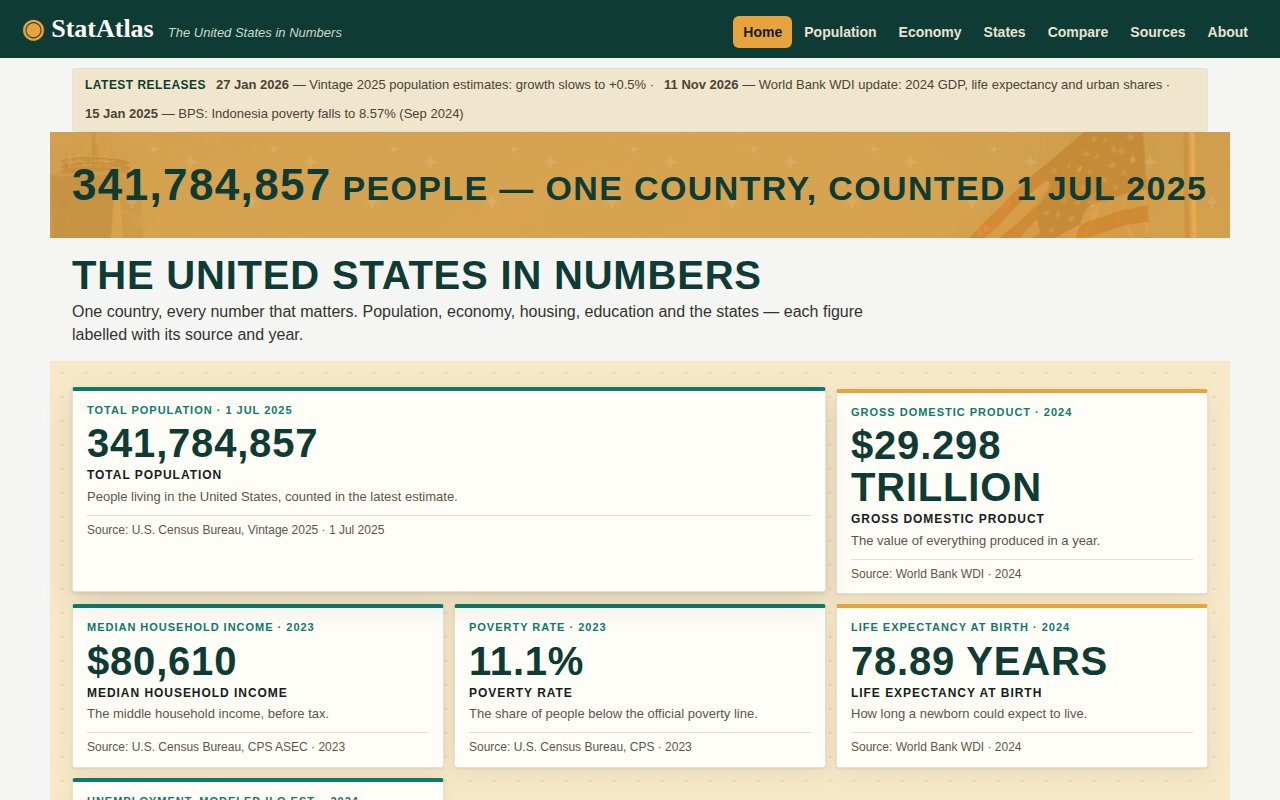
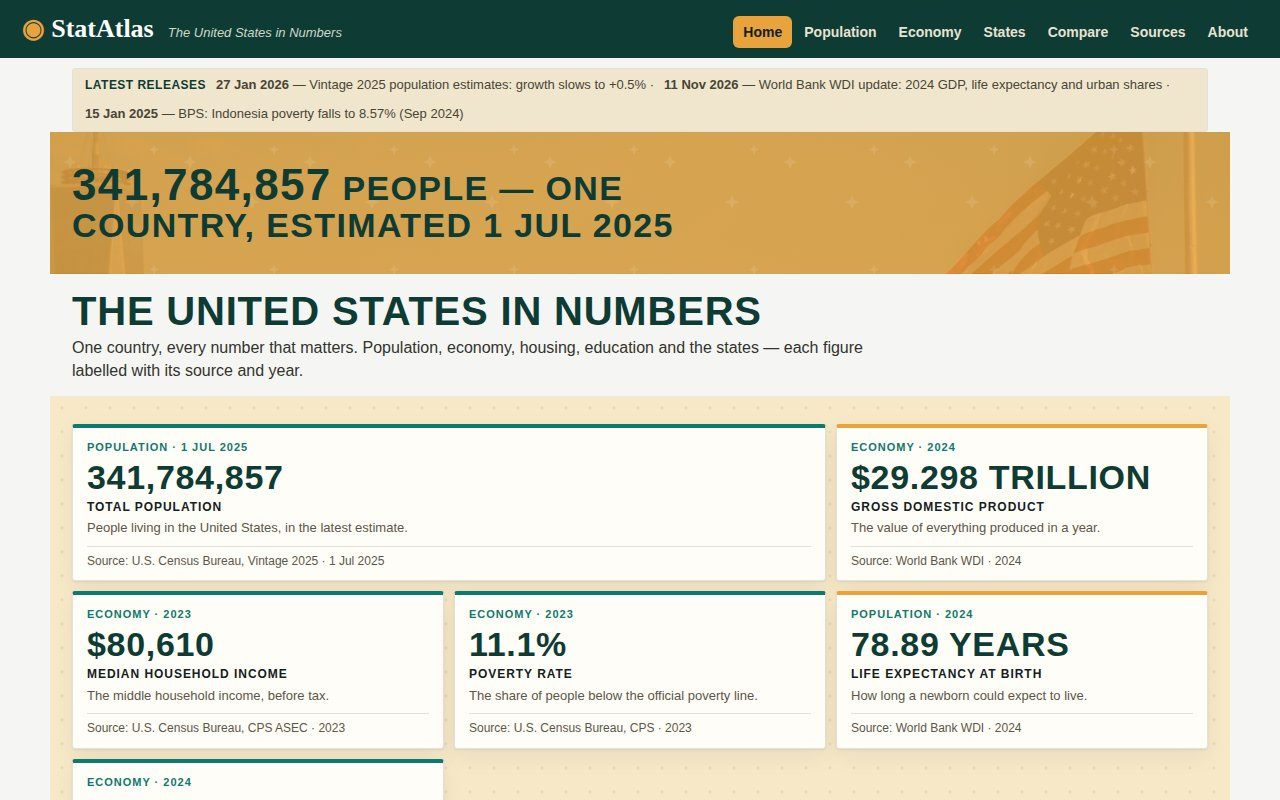
fix pass 2b: Red Team + QA fixes — capped Population strip at 260px, section eyebrows, 34px card values, single Economy photo, corrected alt/wording, States band 68%, phone overflow fix, re-shot screenshots

Changed region(s): [[0.0312, 0.2188, 0.9688, 1.0]]

diff --git a/app/pages.js b/app/pages.js
@@ -10,7 +10,7 @@ function srcLine(text) {
 // Move 3 — dek lines: one clause restating what the figure counts, using
 // only the label / vintage / source wording already on the card. No new facts.
 var DEKS = {
-  'Total population': 'People living in the United States, counted in the latest estimate.',
+  'Total population': 'People living in the United States, in the latest estimate.',
   'Gross domestic product': 'The value of everything produced in a year.',
   'GDP, total': 'The value of everything produced in a year.',
   'Median household income': 'The middle household income, before tax.',
@@ -29,7 +29,7 @@ var DEKS = {
   'Per capita income': 'Income per person.',
   'Median home value': 'The middle value of owner-occupied homes.',
   'Median gross rent': 'The middle monthly rent.',
-  'Housing units': 'Homes counted in the latest estimate.',
+  'Housing units': 'Homes in the latest estimate.',
   'Owner-occupied housing': 'Homes lived in by their owners.',
   'Households': 'Occupied homes.',
   'Persons per household': 'People per occupied home, on average.',
@@ -39,8 +39,13 @@ var DEKS = {
   'Retail sales per capita': 'Shop sales per person.'
 };
 
-function statCard(value, label, year, source) {
-  var eyebrow = label.toUpperCase() + ' \u00b7 ' + String(year).toUpperCase();
+// Fix pass 2b (M1): the eyebrow used to repeat the card label verbatim
+// (label + year), then the label appeared again as .card-label and the
+// year a third time in .card-meta. Now the eyebrow carries the SECTION
+// name + vintage (per brief Move 3: e.g. POPULATION · 2024 ESTIMATE),
+// so the label is stated exactly once, as .card-label.
+function statCard(value, label, year, source, section) {
+  var eyebrow = (section || label).toUpperCase() + ' \u00b7 ' + String(year).toUpperCase();
   var dek = DEKS[label] || '';
   return '<article class="card"><div class="card-eyebrow">' + eyebrow + '</div>'
     + '<div class="card-value">' + value + '</div>'
@@ -73,16 +78,16 @@ export function renderHome() {
   return '<section class="releases"><strong>Latest releases</strong> '
     + RELEASES.map(function (r, i) { return '<span><b>' + r.date + '</b> — ' + r.text + (i < RELEASES.length - 1 ? '&nbsp;·' : '') + '</span>'; }).join(' ')
     + '</section>'
-    + '<section class="band band-amber band-home"><p class="band-line"><span class="band-num">' + USA.population.display + '</span> people — one country, counted 1 Jul 2025</p></section>'
+    + '<section class="band band-amber band-home"><p class="band-line"><span class="band-num">' + USA.population.display + '</span> people — one country, estimated 1 Jul 2025</p></section>'
     + '<h1>The United States in Numbers</h1>'
     + '<p class="lede">One country, every number that matters. Population, economy, housing, education and the states — each figure labelled with its source and year.</p>'
     + '<div class="ground ground-amber"><div class="cards cards-lead">'
-    + statCard(USA.population.display, 'Total population', '1 Jul 2025', 'U.S. Census Bureau, Vintage 2025')
-    + statCard(USA.gdp.display, 'Gross domestic product', '2024', 'World Bank WDI')
-    + statCard(USA.medianIncome.display, 'Median household income', '2023', 'U.S. Census Bureau, CPS ASEC')
-    + statCard(USA.poverty.display, 'Poverty rate', '2023', 'U.S. Census Bureau, CPS')
-    + statCard(USA.lifeExpectancy.display, 'Life expectancy at birth', '2024', 'World Bank WDI')
-    + statCard(USA.unemployment.display, 'Unemployment, modeled ILO est.', '2024', 'World Bank WDI')
+    + statCard(USA.population.display, 'Total population', '1 Jul 2025', 'U.S. Census Bureau, Vintage 2025', 'Population')
+    + statCard(USA.gdp.display, 'Gross domestic product', '2024', 'World Bank WDI', 'Economy')
+    + statCard(USA.medianIncome.display, 'Median household income', '2023', 'U.S. Census Bureau, CPS ASEC', 'Economy')
+    + statCard(USA.poverty.display, 'Poverty rate', '2023', 'U.S. Census Bureau, CPS', 'Economy')
+    + statCard(USA.lifeExpectancy.display, 'Life expectancy at birth', '2024', 'World Bank WDI', 'Population')
+    + statCard(USA.unemployment.display, 'Unemployment, modeled ILO est.', '2024', 'World Bank WDI', 'Economy')
     + '</div></div>'
     + '<div class="duo">'
     + '<section class="panel"><h2>Age structure, 2024</h2>' + chart
@@ -104,10 +109,10 @@ export function renderPopulation(state) {
   let body = '';
   if (tab === 'age') {
     body = '<div class="cards">'
-      + statCard('17.32%', 'Age 0–14', '2024', 'World Bank WDI')
-      + statCard('64.75%', 'Age 15–64', '2024', 'World Bank WDI')
-      + statCard('17.93%', 'Age 65+', '2024', 'World Bank WDI')
-      + statCard('50.9%', 'Female share', '2020–2024', 'U.S. Census Bureau, QuickFacts')
+      + statCard('17.32%', 'Age 0–14', '2024', 'World Bank WDI', 'Population')
+      + statCard('64.75%', 'Age 15–64', '2024', 'World Bank WDI', 'Population')
+      + statCard('17.93%', 'Age 65+', '2024', 'World Bank WDI', 'Population')
+      + statCard('50.9%', 'Female share', '2020–2024', 'U.S. Census Bureau, QuickFacts', 'Population')
       + '</div>'
       + '<div class="panel"><h2>Age structure — share of population</h2>'
       + barChart(colored(USA.ageStructure), { width: 560, unit: '%' })
@@ -115,10 +120,10 @@ export function renderPopulation(state) {
       + '</div>';
   } else {
     body = '<div class="cards">'
-      + statCard('+1.8 million', 'Growth 2024 → 2025 (+0.5%)', 'Jul 2024–Jul 2025', 'U.S. Census Bureau, Vintage 2025')
-      + statCard('+3.2 million', 'Growth 2023 → 2024 (+1.0%)', 'Jul 2023–Jul 2024', 'U.S. Census Bureau, Vintage 2025')
-      + statCard('1.3 million', 'Net international migration', 'Jul 2024–Jun 2025', 'U.S. Census Bureau, Vintage 2025')
-      + statCard('−53.8%', 'Migration vs the year before (2.7M)', 'Jul 2024–Jun 2025', 'U.S. Census Bureau, Vintage 2025')
+      + statCard('+1.8 million', 'Growth 2024 → 2025 (+0.5%)', 'Jul 2024–Jul 2025', 'U.S. Census Bureau, Vintage 2025', 'Population')
+      + statCard('+3.2 million', 'Growth 2023 → 2024 (+1.0%)', 'Jul 2023–Jul 2024', 'U.S. Census Bureau, Vintage 2025', 'Population')
+      + statCard('1.3 million', 'Net international migration', 'Jul 2024–Jun 2025', 'U.S. Census Bureau, Vintage 2025', 'Population')
+      + statCard('−53.8%', 'Migration vs the year before (2.7M)', 'Jul 2024–Jun 2025', 'U.S. Census Bureau, Vintage 2025', 'Population')
       + '</div>'
       + '<div class="panel"><h2>Growth &amp; migration</h2>'
       + barChart(colored([
@@ -154,12 +159,12 @@ export function renderEconomy(state) {
   let body = '';
   if (tab === 'income') {
     body = '<div class="cards">'
-      + statCard(USA.gdp.display, 'GDP, total', '2024', 'World Bank WDI')
-      + statCard(USA.gdpPerCapita.display, 'GDP per capita', '2024', 'World Bank WDI')
-      + statCard(USA.medianIncome.display, 'Median household income', '2023', 'U.S. Census Bureau, CPS ASEC')
-      + statCard(USA.poverty.display, 'Poverty rate', '2023', 'U.S. Census Bureau, CPS')
-      + statCard(USA.perCapitaIncome.display, 'Per capita income', '2020–2024', 'U.S. Census Bureau, ACS 5-yr')
-      + statCard(USA.unemployment.display, 'Unemployment, modeled ILO est.', '2024', 'World Bank WDI')
+      + statCard(USA.gdp.display, 'GDP, total', '2024', 'World Bank WDI', 'Economy')
+      + statCard(USA.gdpPerCapita.display, 'GDP per capita', '2024', 'World Bank WDI', 'Economy')
+      + statCard(USA.medianIncome.display, 'Median household income', '2023', 'U.S. Census Bureau, CPS ASEC', 'Economy')
+      + statCard(USA.poverty.display, 'Poverty rate', '2023', 'U.S. Census Bureau, CPS', 'Economy')
+      + statCard(USA.perCapitaIncome.display, 'Per capita income', '2020–2024', 'U.S. Census Bureau, ACS 5-yr', 'Economy')
+      + statCard(USA.unemployment.display, 'Unemployment, modeled ILO est.', '2024', 'World Bank WDI', 'Economy')
       + '</div>'
       + '<p class="note">GDP per capita is $86,169.66 in purchasing-power terms too — the same figure, not a coincidence: the US dollar is the base currency for PPP comparisons, so for the United States nominal and PPP per-capita GDP coincide by construction.</p>'
       + '<div class="panel"><h2>Rates</h2>'
@@ -180,28 +185,27 @@ export function renderEconomy(state) {
       + '<p class="note">One income figure per view: the headline median is $80,610 (CPS ASEC, 2023). The ACS 5-year median ($80,734, 2020–2024) is listed only on the Sources page. Poverty is 11.1% (CPS 2023); the QuickFacts current value is 10.2%.</p></div>';
   } else if (tab === 'housing') {
     body = '<div class="cards">'
-      + statCard(USA.homeValue.display, 'Median home value', '2020–2024', 'U.S. Census Bureau, ACS 5-yr')
-      + statCard(USA.rent.display, 'Median gross rent', '2020–2024', 'U.S. Census Bureau, ACS 5-yr')
-      + statCard(USA.housingUnits.display, 'Housing units', '1 Jul 2025', 'U.S. Census Bureau, Vintage 2025')
-      + statCard(USA.ownerOccupied.display, 'Owner-occupied housing', '2020–2024', 'U.S. Census Bureau, ACS 5-yr')
-      + statCard(USA.households.display, 'Households', '2020–2024', 'U.S. Census Bureau, ACS 5-yr')
-      + statCard(USA.personsPerHousehold.display, 'Persons per household', '2020–2024', 'U.S. Census Bureau, ACS 5-yr')
+      + statCard(USA.homeValue.display, 'Median home value', '2020–2024', 'U.S. Census Bureau, ACS 5-yr', 'Economy')
+      + statCard(USA.rent.display, 'Median gross rent', '2020–2024', 'U.S. Census Bureau, ACS 5-yr', 'Economy')
+      + statCard(USA.housingUnits.display, 'Housing units', '1 Jul 2025', 'U.S. Census Bureau, Vintage 2025', 'Economy')
+      + statCard(USA.ownerOccupied.display, 'Owner-occupied housing', '2020–2024', 'U.S. Census Bureau, ACS 5-yr', 'Economy')
+      + statCard(USA.households.display, 'Households', '2020–2024', 'U.S. Census Bureau, ACS 5-yr', 'Economy')
+      + statCard(USA.personsPerHousehold.display, 'Persons per household', '2020–2024', 'U.S. Census Bureau, ACS 5-yr', 'Economy')
       + '</div>'
-      + '<div class="panel panel-photo"><div class="panel-main"><h2>Housing in context</h2><p>148,260,882 housing units serve 129,227,496 households — 2.53 people per household on average. '
+      + '<div class="panel"><h2>Housing in context</h2><p>148,260,882 housing units serve 129,227,496 households — 2.53 people per household on average. '
       + '65.2% of homes are owner-occupied; the median home is worth $332,700 and the median rent is $1,413 a month.</p>'
-      + srcLine('U.S. Census Bureau, QuickFacts (ACS 5-year 2020–2024; housing units Vintage 2025).') + '</div>'
-      + '<figure class="photo-side"><img src="img/economy.jpg" alt="The New York Stock Exchange facade with columns and American flags in New York City." loading="lazy"></figure></div>';
+      + srcLine('U.S. Census Bureau, QuickFacts (ACS 5-year 2020–2024; housing units Vintage 2025).') + '</div>';
   } else {
     body = '<div class="cards">'
-      + statCard(USA.establishments.display, 'Employer establishments', '2023', 'U.S. Census Bureau, QuickFacts')
-      + statCard(USA.businessEmployment.display, 'Employment at those firms', '2023', 'U.S. Census Bureau, QuickFacts')
-      + statCard(USA.payroll.display, 'Annual payroll', '2023', 'U.S. Census Bureau, QuickFacts')
-      + statCard(USA.retailPerCapita.display, 'Retail sales per capita', '2022', 'U.S. Census Bureau, QuickFacts')
+      + statCard(USA.establishments.display, 'Employer establishments', '2023', 'U.S. Census Bureau, QuickFacts', 'Economy')
+      + statCard(USA.businessEmployment.display, 'Employment at those firms', '2023', 'U.S. Census Bureau, QuickFacts', 'Economy')
+      + statCard(USA.payroll.display, 'Annual payroll', '2023', 'U.S. Census Bureau, QuickFacts', 'Economy')
+      + statCard(USA.retailPerCapita.display, 'Retail sales per capita', '2022', 'U.S. Census Bureau, QuickFacts', 'Economy')
       + '</div>'
       + '<div class="panel panel-photo"><div class="panel-main"><h2>Business &amp; education</h2><p>8,361,342 employer establishments employ 139,831,742 people and pay $9.556 trillion a year. '
       + 'Among residents age 25 and older, 89.6% finished high school and 35.7% hold a bachelor’s degree or higher (2020–2024).</p>'
       + srcLine('U.S. Census Bureau, QuickFacts.') + '</div>'
-      + '<figure class="photo-side"><img src="img/economy.jpg" alt="The New York Stock Exchange facade with columns and American flags in New York City." loading="lazy"></figure></div>';
+      + '<figure class="photo-side"><img src="img/economy.jpg" alt="The New York Stock Exchange facade with columns in New York City." loading="lazy"></figure></div>';
   }
   return '<section class="band band-pine"><h1>Economy</h1><p class="band-sub">$29.298 trillion · 2024</p></section>'
     + '<p class="lede">A $29.298 trillion economy in 2024 — $86,169.66 per person, the same in purchasing-power terms.</p>'

diff --git a/app/style.css b/app/style.css
@@ -77,11 +77,14 @@ main { max-width: 1180px; margin: 0 auto; padding: 0 22px 30px; }
 .card:nth-child(5) { border-top-color: var(--amber); }
 /* Move 3 — home lead card is the cover story: spans two columns. */
 .cards-lead .card:first-child { grid-column: span 2; }
-/* Move 1 — oversized numerals. */
+/* Move 1 — oversized numerals. Fix pass 2b (M2): 40px wrapped
+   "$29.298 TRILLION" to two lines in the narrow Home GDP card, so the
+   card stood taller than its siblings. 34px still reads as a display
+   numeral and fits the longest value on one line. */
 .card-value {
   font-family: var(--display); font-stretch: condensed; text-transform: uppercase;
   letter-spacing: .02em; line-height: 1.05; font-weight: 800;
-  font-size: 40px; color: var(--pine); font-variant-numeric: tabular-nums;
+  font-size: 34px; color: var(--pine); font-variant-numeric: tabular-nums;
 }
 /* Move 3 — eyebrow above the value, dek under the label, byline-date at the foot. */
 .card-eyebrow {
@@ -200,7 +203,7 @@ footer {
 }
 .band-states {
   background-image: linear-gradient(rgba(14, 59, 52, .60), rgba(14, 59, 52, .60)), url(img/states.jpg);
-  background-size: cover; background-position: center 40%;
+  background-size: cover; background-position: center 68%;
 }
 .band-about {
   background-image: linear-gradient(rgba(14, 59, 52, .60), rgba(14, 59, 52, .60)), url(img/about.jpg);
@@ -220,10 +223,15 @@ footer {
 .ground-pine { background-color: var(--tint-pine); background-image: url(img/pattern-dots.svg); }
 
 /* Photo strips (Population, Sources): full-bleed, no text on the photo,
-   tinted ground shows through if the file ever fails to load. */
+   tinted ground shows through if the file ever fails to load.
+   Fix pass 2b (H1): the 21:9 strip rendered ~506px tall and pushed every
+   stat below the fold (ads first screen). Capped at 260px with
+   object-position: bottom so the crowd — the photo's subject — stays
+   in frame instead of being centre-cropped away. */
 .photo-strip { margin: 0 -22px 14px; }
 .photo-strip img {
   display: block; width: 100%; aspect-ratio: 21 / 9; object-fit: cover;
+  max-height: 260px; object-position: center bottom;
   outline: 1px solid rgba(0, 0, 0, .1); outline-offset: -1px; background: var(--tint-teal);
 }
 .route-sources .photo-strip img { background: var(--tint-slate); }
@@ -296,3 +304,16 @@ footer {
 
 /* Document-stack mark beside the Sources "Method notes" heading. */
 .panel h2 svg { vertical-align: -2px; margin-right: 6px; }
+
+/* Fix pass 2b (QA#3) — phone 8px horizontal scroll. Root cause: the
+   ≤860px override above (`.ground, .photo-strip, .photo-duo { margin:
+   -14px }`) is dead — the fix-pass-2 rules (margin: 0 -22px) come later
+   in this file and override it, so at 390px those elements were 406px
+   wide in a 390px viewport (documentElement.scrollWidth 398). This
+   block sits after those rules, so the -14px margins finally apply and
+   full-bleed elements are exactly viewport-wide. overflow-x: clip on
+   body is a guard for the same breakpoint. */
+@media (max-width: 860px) {
+  body { overflow-x: clip; }
+  .ground, .photo-strip, .photo-duo { margin-left: -14px; margin-right: -14px; }
+}
